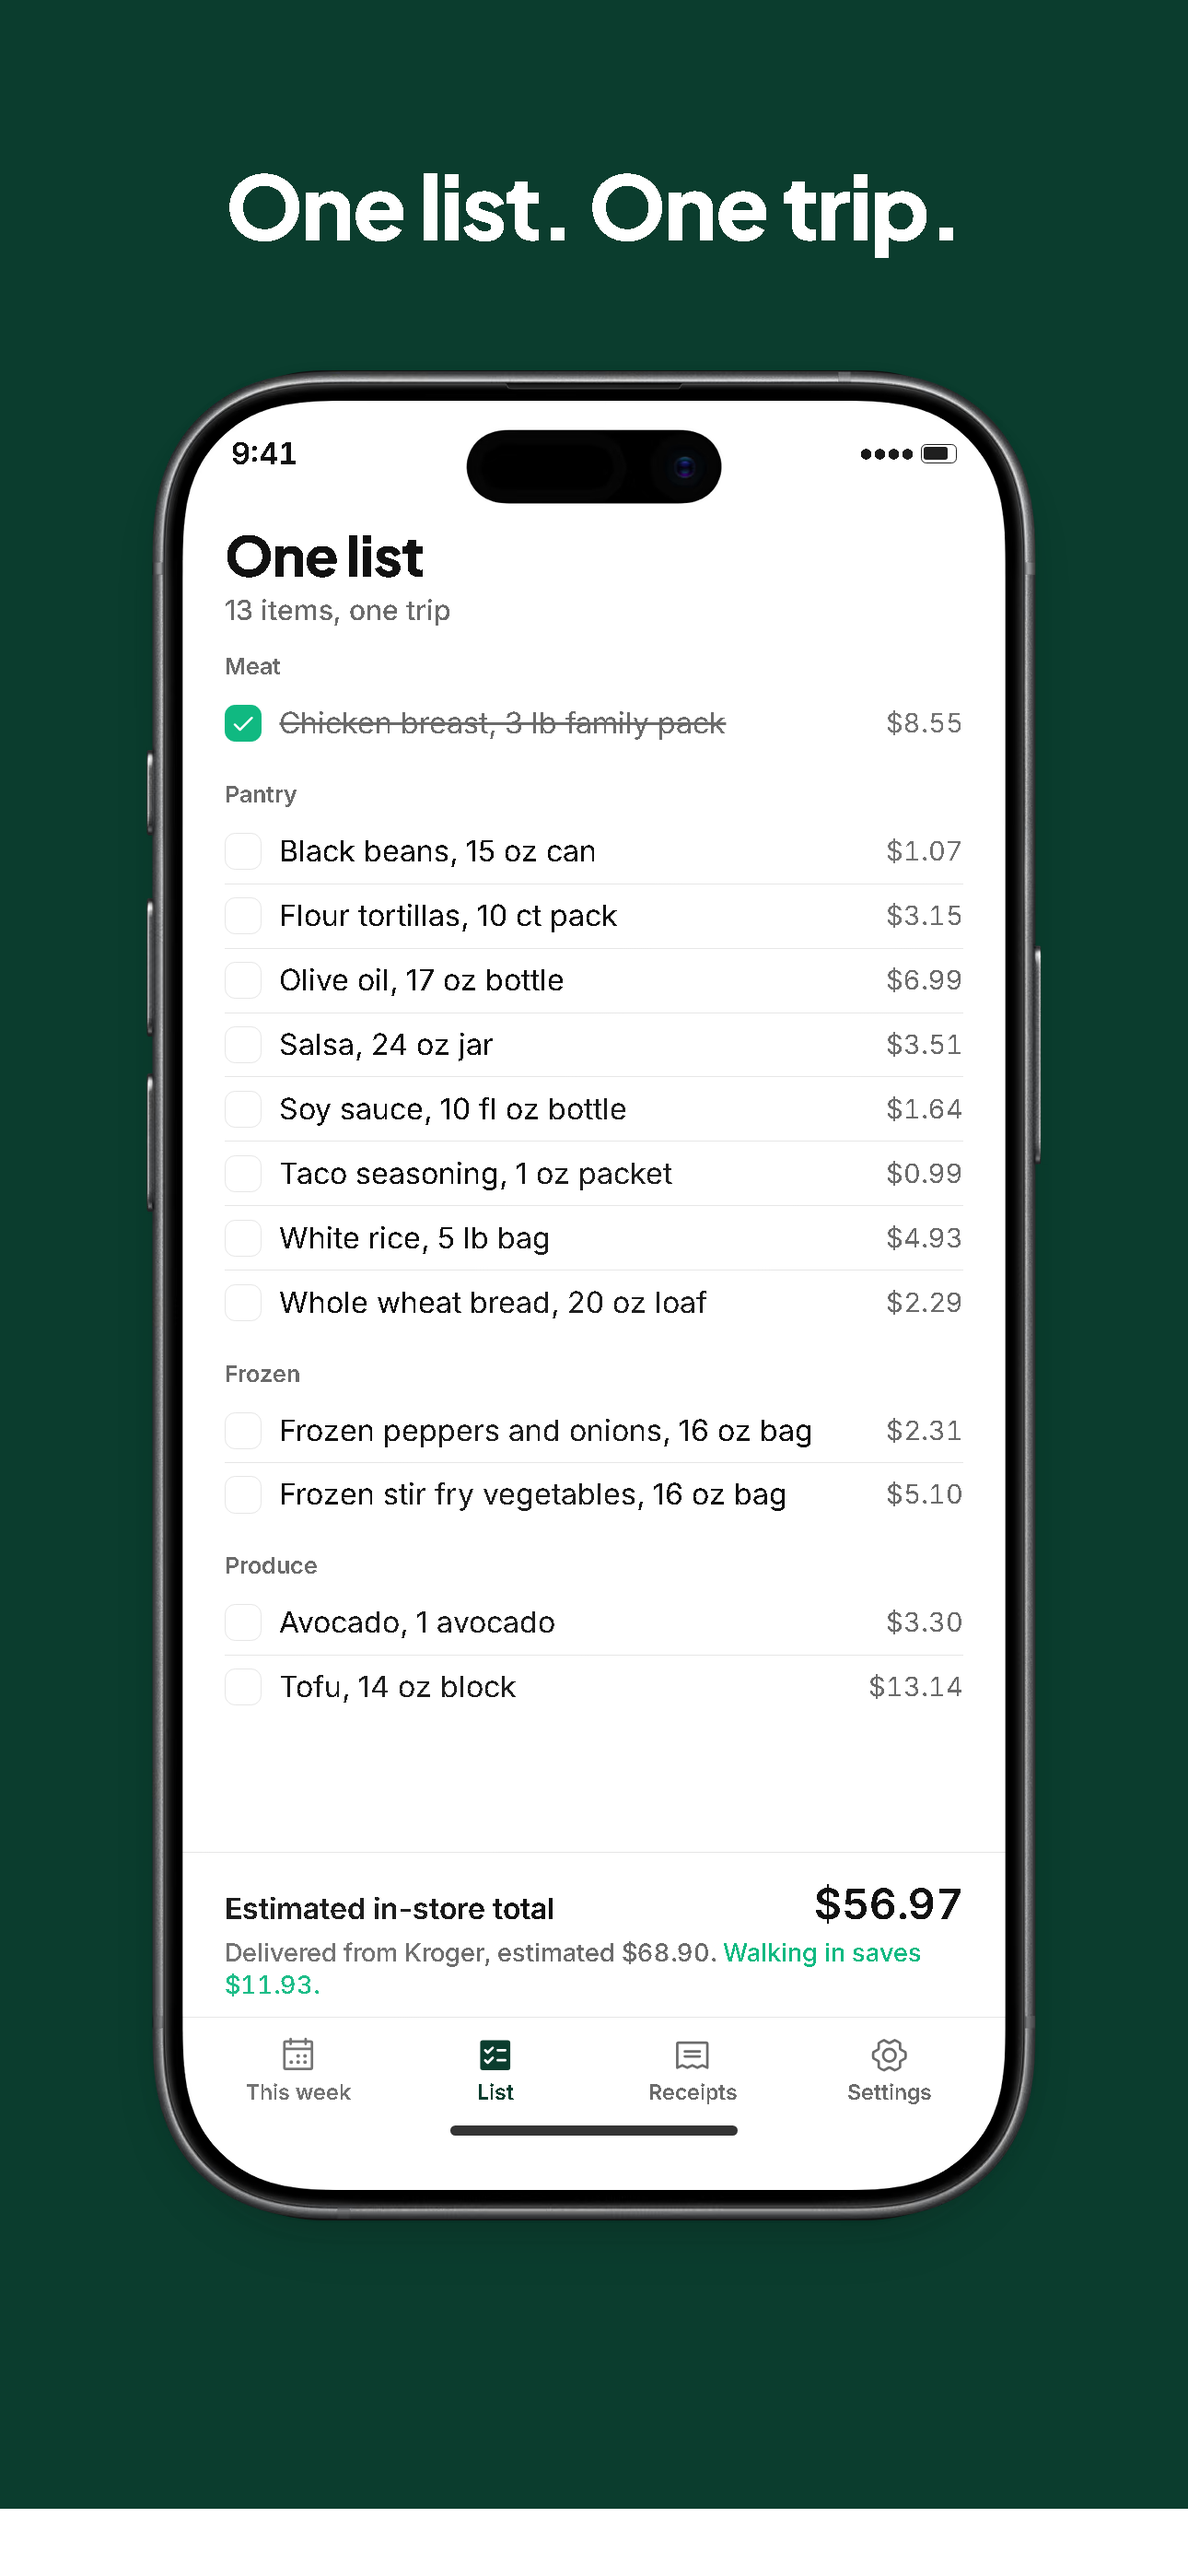
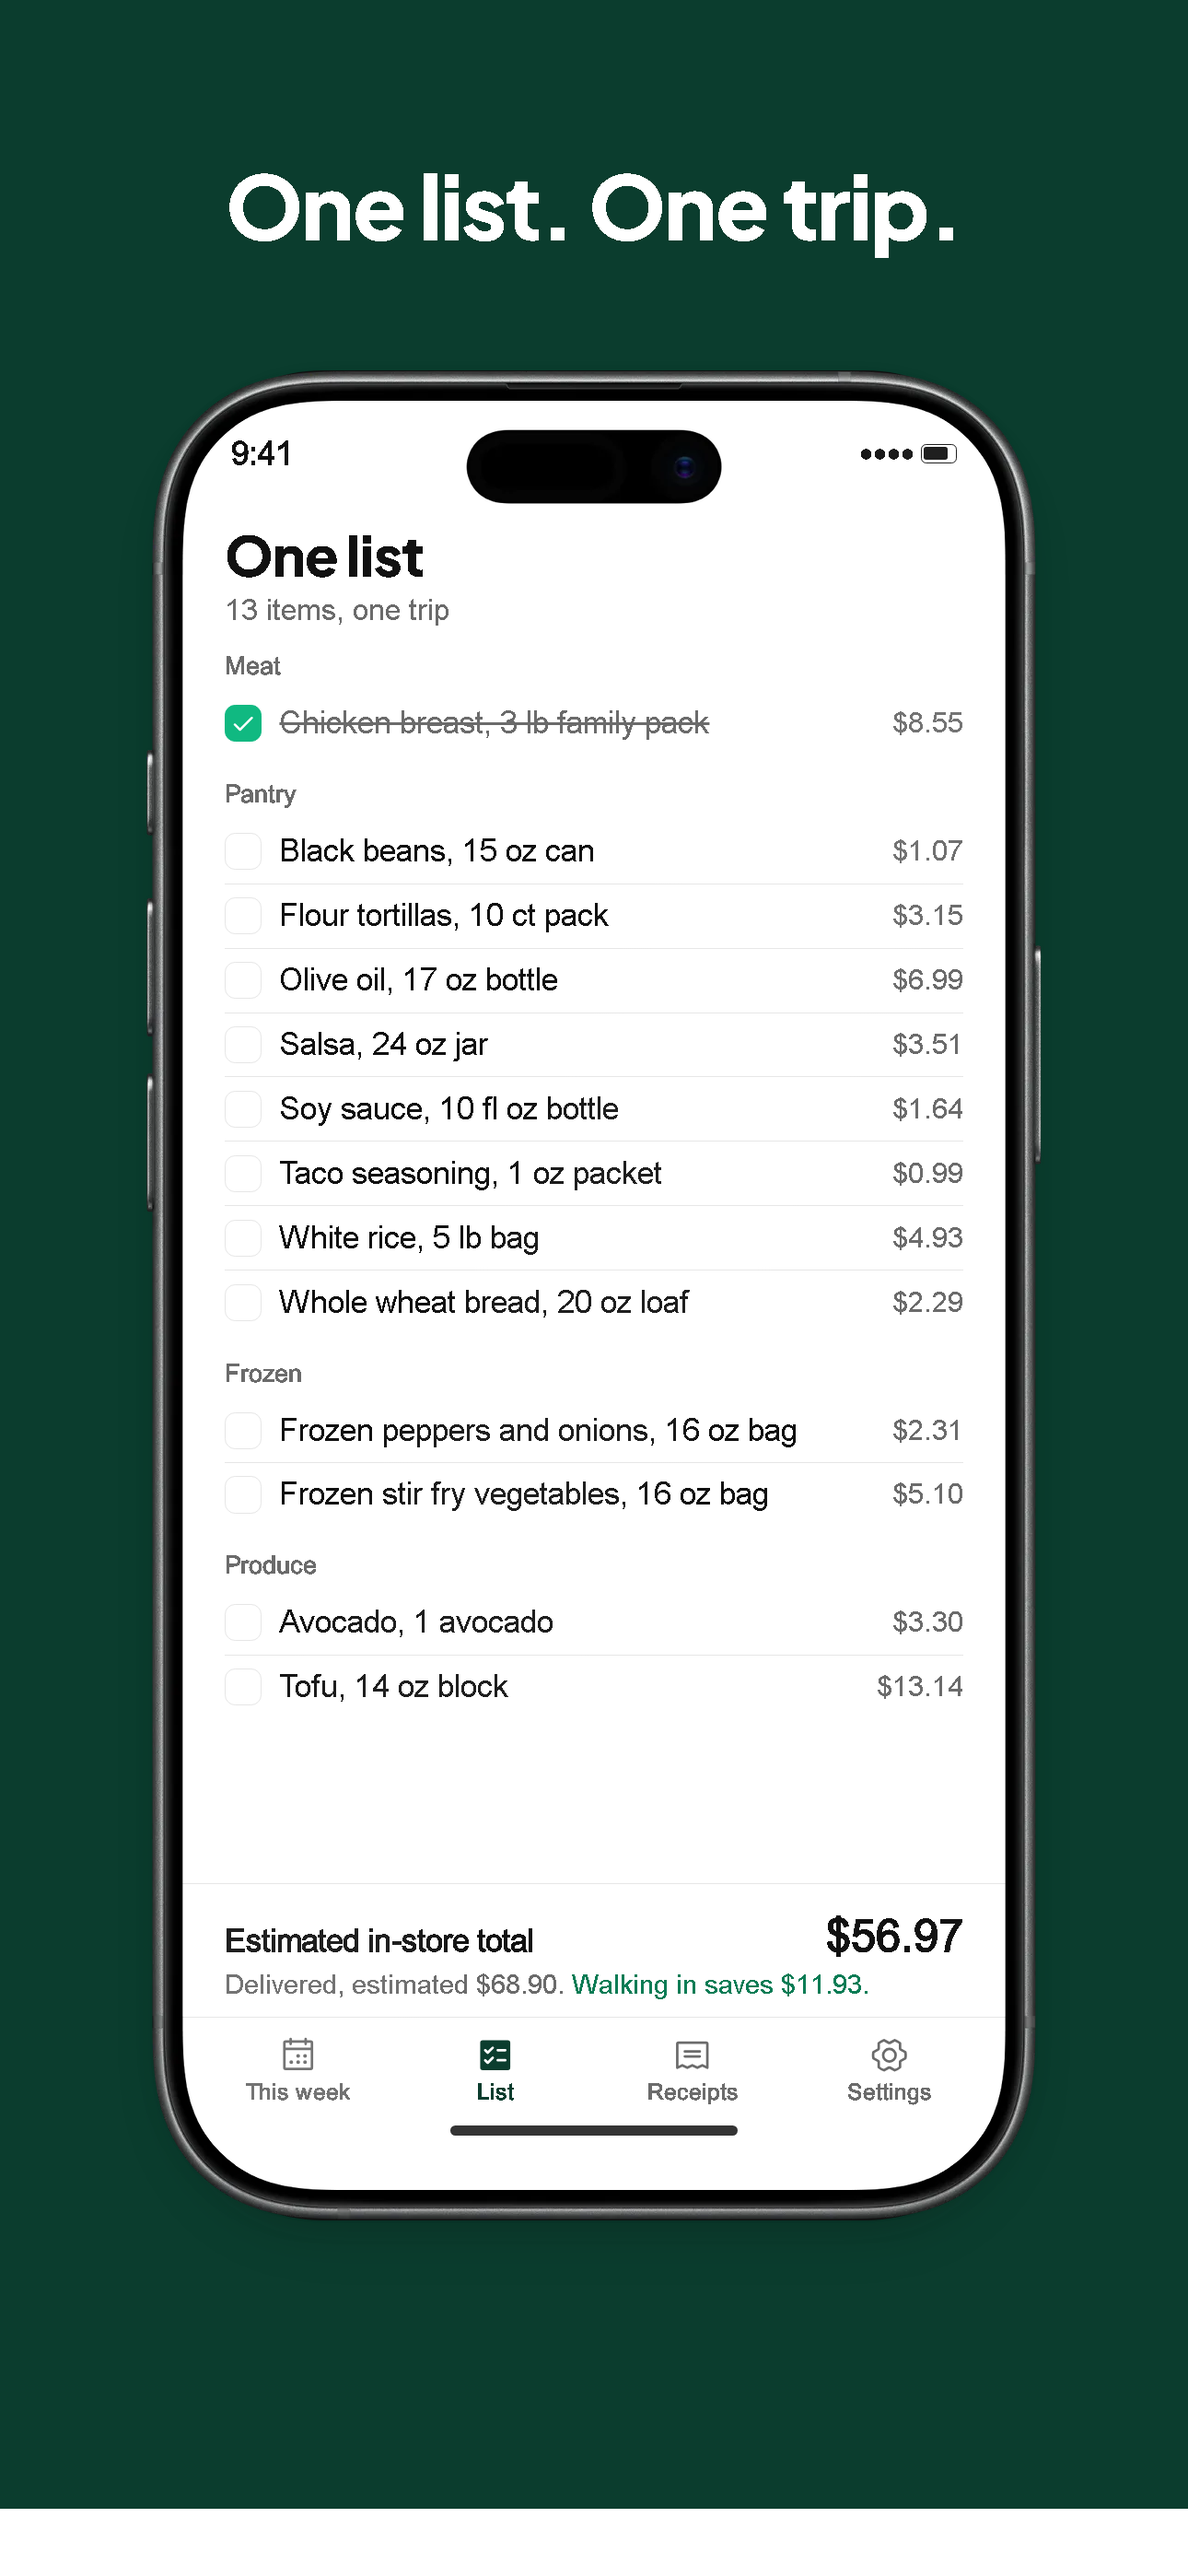
copy: no retailer names in user-facing copy
The one-short-list card, the shelf-price why card, the FAQ, the about line,
/the-math and the support KB say "delivered" instead of naming the retailer;
the grocery-list screen and /w pages render "Delivered, estimated" instead of
the fixture's label (data untouched); /staples says public price data. The
grocery store shot is re-rendered. CLAUDE.md carries the rule. Also: the
pricing OG regex escapes its dot.

diff --git a/app/copy.ts b/app/copy.ts
@@ -24,7 +24,7 @@ export const FAQ = [
   },
   {
     q: "How accurate are the prices?",
-    a: "We quote what the shelf says: averages from public price data with a buffer on top, labeled as estimates and refreshed weekly. Beside it sits what the same list costs delivered from Kroger, an estimate, so you can see the markup. Delivery apps run 15 to 25 percent higher before fees. Every receipt you reveal tightens the estimate for you.",
+    a: "We quote what the shelf says: averages from public price data with a buffer on top, labeled as estimates and refreshed weekly. Beside it sits what the same list costs delivered, an estimate, so you can see the markup. Delivery apps run 15 to 25 percent higher before fees. Every receipt you reveal tightens the estimate for you.",
     more: { label: "How the math works", href: "/the-math" },
   },
   {
@@ -55,6 +55,6 @@ export const faqLd = (items: { q: string; a: string }[]) => ({
 export const ABOUT = [
   "Groceries got absurd. Protein got expensive. And every app we tried optimized macros, not money. It would hand you a perfect day of eating that cost more than your rent allowed, then shrug when half of it went bad on Thursday.",
   "WiseDinner is the other way round. You give it two numbers: what you can spend this week and how much protein you want a day. A solver returns one short list from a fixed pool of staples, five days of meals that share ingredients, and an estimated in-store total. The whole package gets eaten, by construction.",
-  "We refuse three things: fake reviews, sponsored picks in your list, and hidden delivery markups. When we show what the same list costs delivered from Kroger, it is an estimate and sits next to the shelf price with fees included.",
+  "We refuse three things: fake reviews, sponsored picks in your list, and hidden delivery markups. When we show what the same list costs delivered, it is an estimate and sits next to the shelf price with fees included.",
   "The receipt is the proof. We would rather be judged by it.",
 ];

diff --git a/content/site.ts b/content/site.ts
@@ -14,7 +14,7 @@ export const site = {
     h2: "What does WiseDinner include?",
     items: [
       { title: "A solved week, not suggestions", body: "Give it two numbers. It returns five days of meals that share ingredients, so nothing you buy goes to waste. Regenerate a meal or the whole week." },
-      { title: "One short list with a real total", body: "Everything for the week, grouped by aisle, with an estimated in-store total. You also see what the same list costs delivered from Kroger, estimated." },
+      { title: "One short list with a real total", body: "Everything for the week, grouped by aisle, with an estimated in-store total. You also see what the same list costs delivered, estimated." },
       { title: "Share your week and beat a friend's", body: "Every solved week gets a card and a link. Send a friend your numbers and see who comes out cheaper." },
       { title: "Prove it with your receipt", body: "Photograph your receipt after you shop. You see the estimate next to what you actually paid, and the app gets more accurate every week." },
     ],
@@ -25,7 +25,7 @@ export const site = {
     sub: "The simplest way to eat well on a real budget.",
     items: [
       { title: "It does the math", body: "A solver plans the week. Same inputs, same result, every time. No guessing your macros.", icon: "calculator" },
-      { title: "Shelf prices, not app prices", body: "We quote what the shelf says and show what the same list costs delivered from Kroger, estimated, next to it. Delivery apps mark items up 15 to 25 percent before fees.", icon: "tag" },
+      { title: "Shelf prices, not app prices", body: "We quote what the shelf says and show what the same list costs delivered, estimated, next to it. Delivery apps mark items up 15 to 25 percent before fees.", icon: "tag" },
       { title: "Nothing goes to waste", body: "Whole packages get used. Perishables early in the week, freezer friendly by Friday.", icon: "leaf" },
     ],
   },

diff --git a/content/support-kb.ts b/content/support-kb.ts
@@ -21,7 +21,7 @@ export const PRIVACY_DIGEST = `Privacy policy (effective September 9, 2026), in 
 
 export const PRODUCT_FACTS = `Product facts:
 - WiseDinner is an iPhone app (Android next). You give it two numbers, a weekly grocery budget and a daily protein goal, and it returns a solved five day week of meals, one short grocery list and an estimated in-store total. There is no web version and no web demo.
-- Prices are shelf-price estimates from public price data with a buffer, refreshed weekly; the app can also show what the same list costs delivered from Kroger, as an estimate. Receipts revealed in the app tighten the estimate for that user.
+- Prices are shelf-price estimates from public price data with a buffer, refreshed weekly; the app can also show what the same list costs delivered, as an estimate. Receipts revealed in the app tighten the estimate for that user.
 - Pre-order is open on the App Store. Release follows a few weeks after pre-order opens; there is no fixed date to promise.
 - The pre-order build is free and complete and needs no account. Paid tiers arrive at launch with a 14 day free trial in the app: Protein Plan (reroll any single meal into a different dish from what's already on the list, receipt reveal, the weekly solve challenge) and Courier (reroll opens a menu of dishes with the same protein to choose from, the whole list delivered from your store, next week planned every Sunday at 5pm). Exact prices are in the pricing facts below.
 - The weekly solve challenge counts only receipt-verified weeks; the leaderboard is cost per gram of protein.

diff --git a/app/the-math/page.tsx b/app/the-math/page.tsx
@@ -15,7 +15,7 @@ const SECTIONS: [string, string][] = [
   ["A solver, not a guess", "The week is solved by a deterministic solver: the same numbers in always give the same week out, and it cannot get arithmetic wrong. It picks one short list of staples that overlap across five days so that every pack gets finished. Perishables go early in the week, freezer-friendly meals by Friday."],
   ["Real shelf prices", "Prices are averages from public price data with a buffer on top, labeled as estimates and refreshed weekly. We quote shelf prices, not delivery-app prices. In the app, every receipt you log tightens the estimate for you."],
   ["Nothing wasted, by construction", "Because the plan is built from whole packs that get used up, the week ends with an empty fridge on purpose."],
-  ["What we refuse", "Fake reviews. Sponsored picks in your list. Hidden delivery markups. When we show what the same list costs delivered from Kroger, it is an estimate and sits next to the shelf price with fees included."],
+  ["What we refuse", "Fake reviews. Sponsored picks in your list. Hidden delivery markups. When we show what the same list costs delivered, it is an estimate and sits next to the shelf price with fees included."],
 ];
 
 export default function TheMath() {

diff --git a/app/staples/page.tsx b/app/staples/page.tsx
@@ -33,7 +33,7 @@ export default function Staples() {
       <header className="flex flex-wrap items-baseline gap-x-6 gap-y-1">
         <span className="font-display text-lg font-extrabold tracking-[-0.02em]">WiseDinner</span>
         <span className="text-xs text-ink-2 tnum">
-          Sku pool v{snapshot.version}, {rows.length} SKUs, {store.banner} prices as of {asOf}, estimated in-store with a 10% buffer
+          Sku pool v{snapshot.version}, {rows.length} SKUs, public price data as of {asOf}, estimated in-store with a 10% buffer
         </span>
         {stale && <span className="text-xs text-danger tnum">Stale: some prices are older than {STALE_AFTER_DAYS} days</span>}
       </header>

diff --git a/app/og/route.tsx b/app/og/route.tsx
@@ -10,7 +10,7 @@ export const runtime = "edge";
 const COPY: Record<string, [string, string]> = {
   home: ["Hit your protein. Spend way less.", site.hero.lede],
   drop: ["This week's protein plan.", "Refreshed every Sunday from real shelf prices."],
-  pricing: ["Simple pricing.", `Protein Plan from $${site.pricing.tiers[0].perMonth.toFixed(2).replace(/.00$/, "")} a month billed yearly. 14-day free trial in the app.`],
+  pricing: ["Simple pricing.", `Protein Plan from $${site.pricing.tiers[0].perMonth.toFixed(2).replace(/\.00$/, "")} a month billed yearly. 14-day free trial in the app.`],
 };
 
 export async function GET(req: Request) {

diff --git a/app/screens/grocery-list.tsx b/app/screens/grocery-list.tsx
@@ -44,7 +44,7 @@ export function GroceryList({ week }: { week: FixtureWeek }) {
           <span className="text-[1.25em] font-semibold tnum">{usd(list.est_total_usd)}</span>
         </div>
         <p className="mt-[0.25em] text-[0.75em] font-medium text-ink-2 tnum">
-          {list.delivery_label} {usd(list.delivery_est_usd)}. <span className="text-emerald-ink">Walking in saves {usd(list.delivery_saves_usd)}.</span>
+          Delivered, estimated {usd(list.delivery_est_usd)}. <span className="text-emerald-ink">Walking in saves {usd(list.delivery_saves_usd)}.</span>
         </p>
       </div>
       <TabBar active="List" />

diff --git a/app/w/[id]/page.tsx b/app/w/[id]/page.tsx
@@ -109,7 +109,7 @@ export default async function SharePage({ params }: { params: Promise<{ id: stri
             </div>
             {w.list.delivery_est_usd > 0 && (
               <p className="mt-1 text-sm text-ink-2 tnum">
-                {w.list.delivery_label} {usd(w.list.delivery_est_usd)}. <span className="font-medium text-emerald-ink">Walking in saves {usd(w.list.delivery_saves_usd)}.</span>
+                Delivered, estimated {usd(w.list.delivery_est_usd)}. <span className="font-medium text-emerald-ink">Walking in saves {usd(w.list.delivery_saves_usd)}.</span>
               </p>
             )}
           </div>

diff --git a/CLAUDE.md b/CLAUDE.md
@@ -13,6 +13,7 @@ You are building WiseDinner: a budget+protein meal solver. Web app first (Next.j
 
 ## Design skills — roles + precedence (founder law, 2026-09-05; REDESIGN-V4 promoted 2026-09-08)
 - **docs/REDESIGN-V4.md** — the design source of truth, ABOVE everything else: brand (§2), tokens, type, shape, voice and motion (§3), menu (§4), imagery (§5), page structure (§6), copy deck (§7), app screens (§8), verification (§9). `npm run lint:voice` enforces §3's voice; the built HTML must carry no dashes, middots, ellipses or lowercase styling.
+- **Retailer and data source names never appear in user-facing copy.** Say delivered, in store, or public price data. (Founder law, SITE-V5 §8, 2026-09-24.) Code, data files, docs and API routes may name them.
 - **docs/DESIGN-AUDIT.md** — second: section grammar, hero concept, conversion audit and the §18.5 acceptance gate still apply; its token (§6) and typography (§7) sections are archived as superseded by REDESIGN-V4 §3. docs/archive/DESIGN-V2-PLAN.md and docs/archive/DESIGN.md are retired; SITE-SPEC §6 is superseded.
 - **ui-ux-pro-max** (.agents/skills) — design-system engine: radius, shadow scale, typography pairings, lush green surfaces.
 - **impeccable** (user plugin, pbakaus/impeccable — `/impeccable audit`, `/impeccable polish`, `/impeccable critique`, …) — design fluency, creative direction and the craft floors. It replaces the retired `human-design` and `frontend-design` skills.
